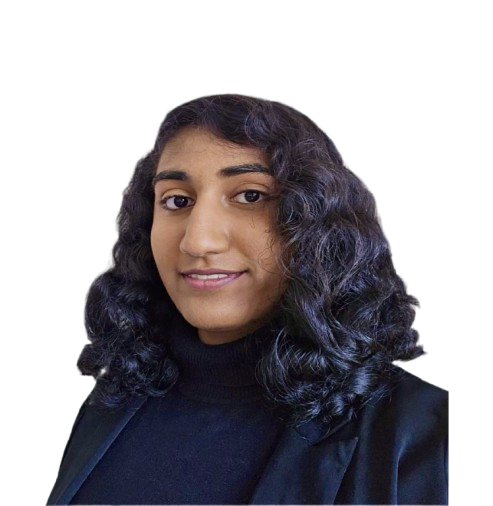
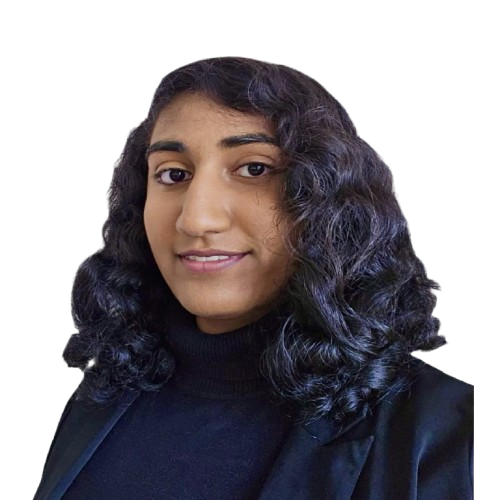
leadership pg updated

Changed region(s): [[0.0609, 0.09, 0.9736, 1.0], [0.5477, 0.9, 0.5781, 0.93]]

diff --git a/app/components/LeadershipCards/LeadershipCards.tsx b/app/components/LeadershipCards/LeadershipCards.tsx
@@ -38,46 +38,60 @@ function LeadershipCards() {
       title: "Design",
       cards: [
         {
-          name: "David Courtis",
-          title: "Director of Design, Natural Language Processing",
-          img: "/headshots/David_Courtis.png",
+          name: "Josh Albom",
+          title: "Director of Design",
+          img: "/headshots/Josh_Albom.png",
           class: "leadershipCardDesign",
-          social: "",
+          social: "https://www.linkedin.com/in/josh-albom/",
         },
         {
-          name: "Kiarash Mirkamandari",
-          title: "Director of Design, Computer Vision",
-          img: "/headshots/Kiarash_Mirkamandari.png",
+          name: "Josh Wagman",
+          title: "Director of Design",
+          img: "/headshots/Josh_Wagman.png",
           class: "leadershipCardDesign",
-          social: "",
+          social: "https://www.linkedin.com/in/josh-wagman-81099b252/",
         },
         {
-          name: "Paul Wu",
-          title: "Director of AI Ethics",
-          img: "/headshots/Paul_Wu.png",
+          name: "Shrika Vejandla",
+          title: "Director of Design",
+          img: "/headshots/Shrika_Vejandla.png",
           class: "leadershipCardDesign",
-          social: "",
+          social: "https://www.linkedin.com/in/shrikavejandla/",
         },
         {
-          name: "Ryan Su",
-          title: "Director of Design, Finance, Reinforcement Learning",
-          img: "/headshots/Ryan_Su.png",
+          name: "Zain Parihar",
+          title: "Director of Design",
+          img: "/headshots/Zain_Parihar.png",
           class: "leadershipCardDesign",
-          social: "",
+          social: "https://www.linkedin.com/in/zain-parihar/",
         },
         {
-          name: "Sarah Nassar",
-          title: "Director of Design, Healthcare",
-          img: "/headshots/Sarah_Nassar.png",
+          name: "Caitlin Roach",
+          title: "Director of Design",
+          img: "/headshots/Caitlin_Roach.png",
           class: "leadershipCardDesign",
-          social: "",
+          social: "https://www.linkedin.com/in/caitlin-roach/",
         },
         {
-          name: "Seth Grief-Albert",
-          title: "Director of AI Research",
-          img: "/headshots/Seth_Albert.png",
+          name: "Jake Feldman",
+          title: "Director of Design",
+          img: "/headshots/Jake_Feldman.png",
           class: "leadershipCardDesign",
-          social: "",
+          social: "https://www.linkedin.com/in/jake-feldman-starosta-a43857296/",
+        },
+        {
+          name: "Michael Cronin",
+          title: "Director of Design, Consulting",
+          img: "/headshots/Michael_Cronin.png",
+          class: "leadershipCardDesign",
+          social: "https://www.linkedin.com/in/michael-cronin-20mjc8/",
+        },
+        {
+          name: "Colin Gould",
+          title: "Director of Design, Consulting",
+          img: "/headshots/Colin_Gould.png",
+          class: "leadershipCardDesign",
+          social: "https://www.linkedin.com/in/colin-gould15/",
         },
       ],
     },
@@ -85,25 +99,11 @@ function LeadershipCards() {
       title: "Operations",
       cards: [
         {
-          name: "Jasmine Zangeneh",
+          name: "Sandy Mourad",
           title: "Director of Marketing",
-          img: "/headshots/Jasmine_Zangeneh.png",
+          img: "/headshots/Sandy_Mourad.png",
           class: "leadershipCardOperations",
-          social: "",
-        },
-        {
-          name: "Joseph Liao",
-          title: "Director of Marketing",
-          img: "/headshots/Joseph_Liao.png",
-          class: "leadershipCardOperations",
-          social: "",
-        },
-        {
-          name: "Leonardo Montes Q.",
-          title: "Director of External Relations",
-          img: "/headshots/Leonardo_Montes.png",
-          class: "leadershipCardOperations",
-          social: "",
+          social: "https://www.linkedin.com/in/sandy-mourad/",
         },
         {
           name: "Rowan McDonald",
@@ -113,11 +113,11 @@ function LeadershipCards() {
           social: "https://www.linkedin.com/in/rowan-m/",
         },
         {
-          name: "Stefan Pitigoi",
+          name: "Adwait Srivastava",
           title: "Director of Web Development",
-          img: "/headshots/Stefan_Pitigoi.png",
+          img: "/headshots/Adwait_Srivastava.png",
           class: "leadershipCardOperations",
-          social: "https://www.linkedin.com/in/stefan-pitigoi/",
+          social: "https://www.linkedin.com/in/adwait-srivastava/",
         },
       ],
     },
@@ -131,13 +131,20 @@ function LeadershipCards() {
           class: "leadershipCardDevelopment",
           social: "https://www.linkedin.com/in/elisa-galli1/",
         },
-        // {
-        //   name: "Danne Mohammed",
-        //   title: "Director of QMIND Tech Review",
-        //   img: "/headshots/Danne_Mohammed.png",
-        //   class: "leadershipCardDevelopment",
-        //   social: "",
-        // },
+        {
+          name: "Ishaan Khanna",
+          title: "Director of External Affairs",
+          img: "/headshots/Ishaan_Khanna.png",
+          class: "leadershipCardDevelopment",
+          social: "https://www.linkedin.com/in/ishaan-khanna18/",
+        },
+        {
+          name: "Sarah Nassar",
+          title: "Director of Tech Review",
+          img: "/headshots/Sarah_Nassar.png",
+          class: "leadershipCardDevelopment",
+          social: "https://www.linkedin.com/in/sarah-n-661b84213/",
+        },
       ],
     },
     {
